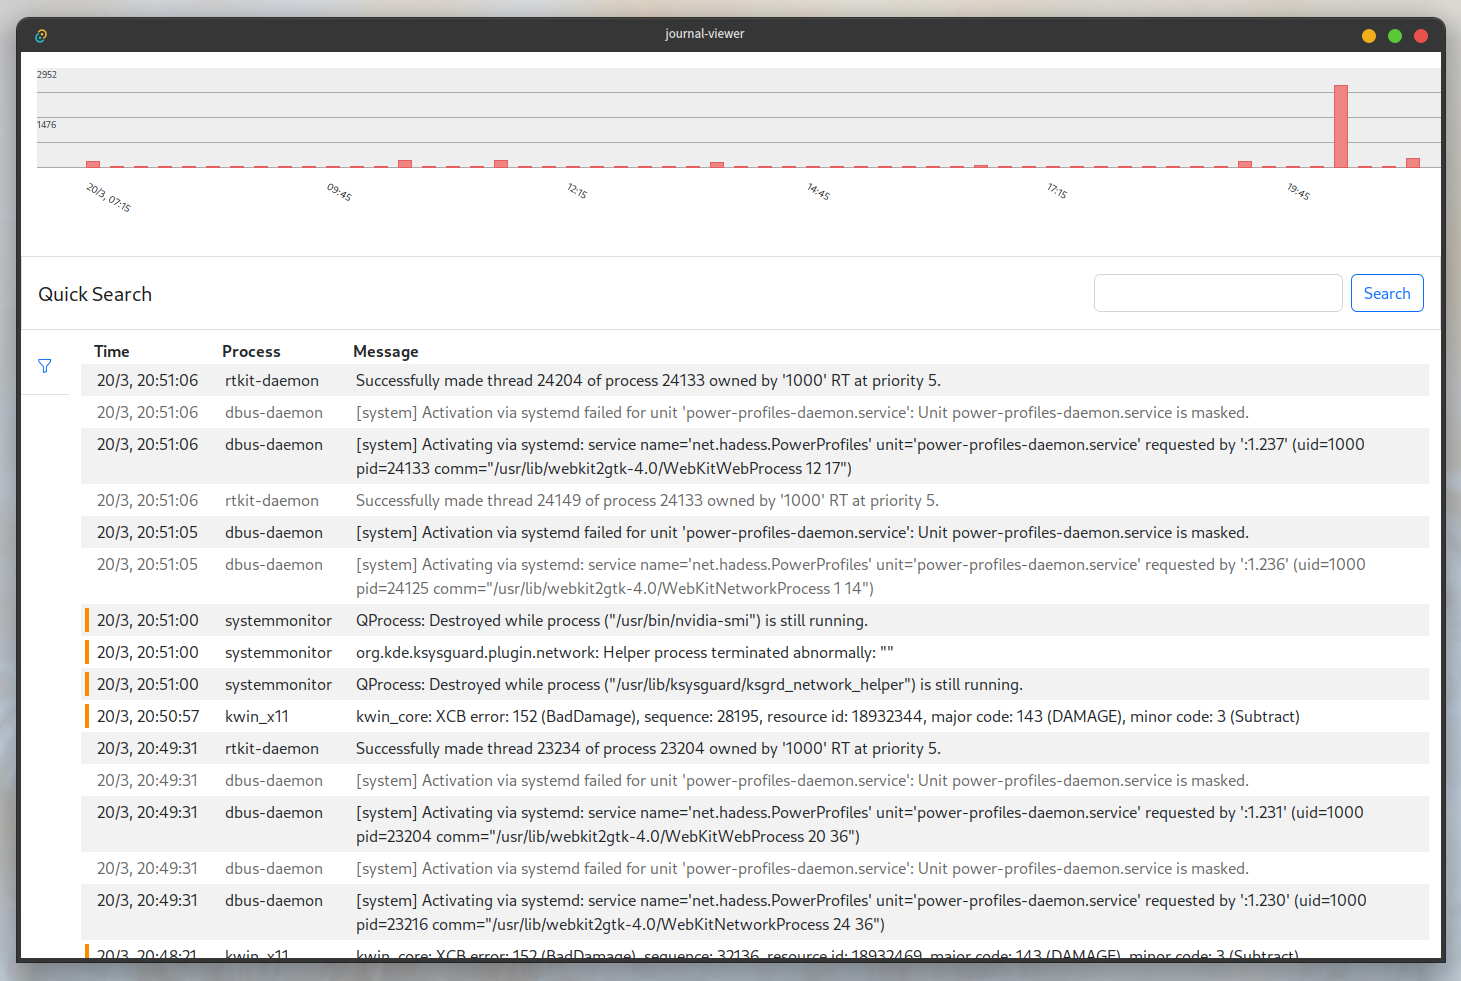
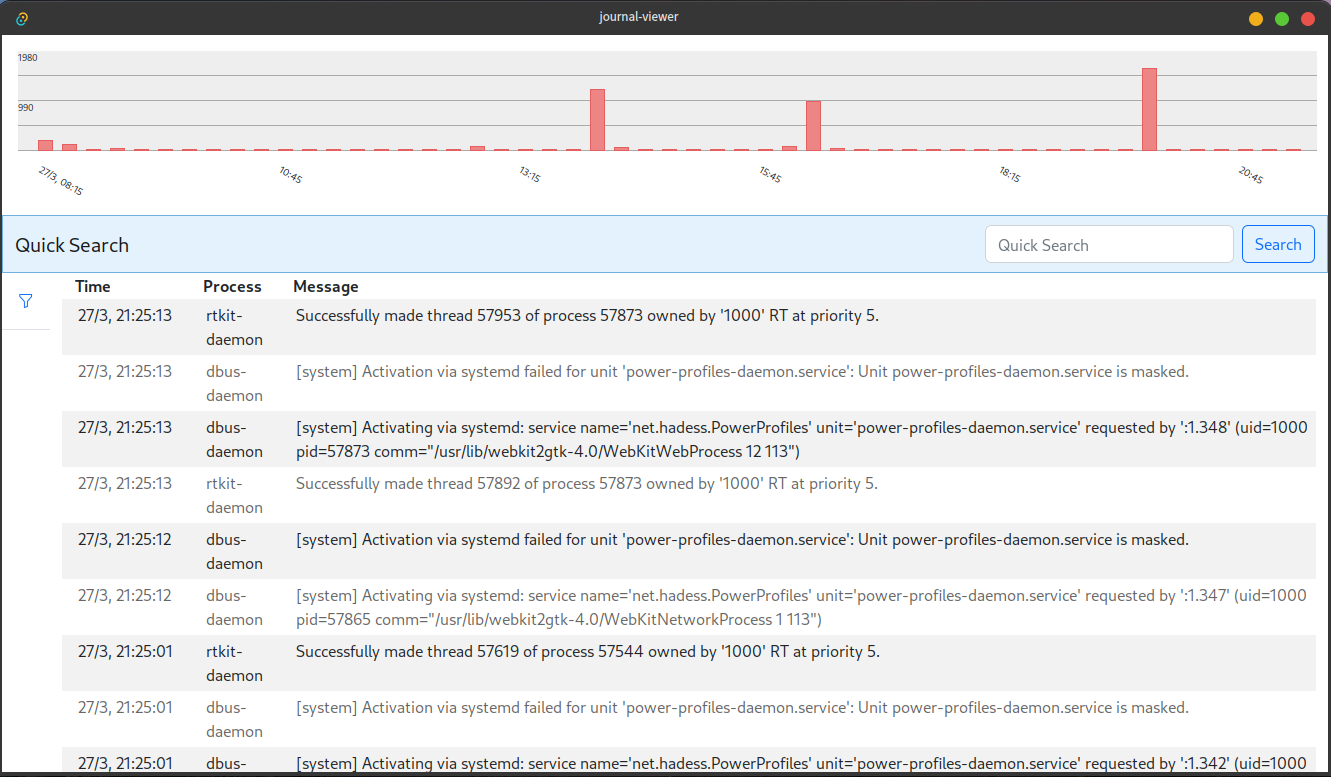
Update image and fix search bar text

Changed region(s): [[0.0, 0.0, 1.0, 1.0], [0.9241, 0.2162, 0.9549, 0.2471], [0.7393, 0.2162, 0.7701, 0.2471]]

diff --git a/src/components/SearchBar.vue b/src/components/SearchBar.vue
@@ -22,7 +22,7 @@ function search(event?: Event) {
   <!-- Quick Search -->
   <nav class="navbar">
     <div class="container-fluid">
-      <a class="navbar-brand" href="#">Navbar</a>
+      <a class="navbar-brand" href="#">Quick Search</a>
       <form class="d-flex" role="search">
         <input
           class="form-control me-2"
